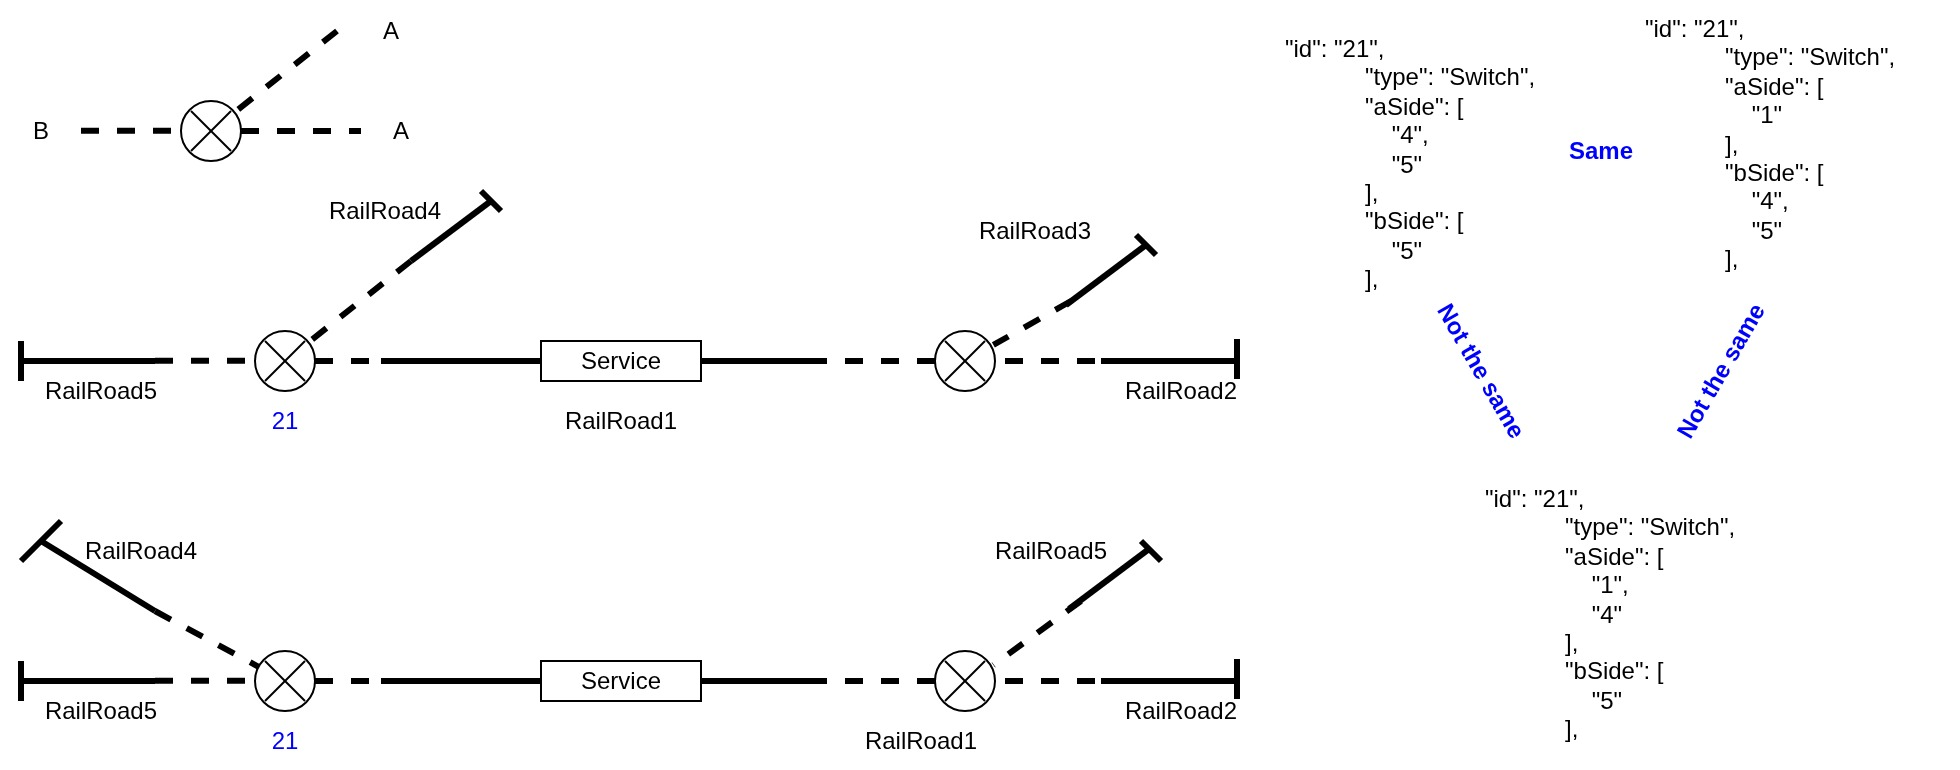
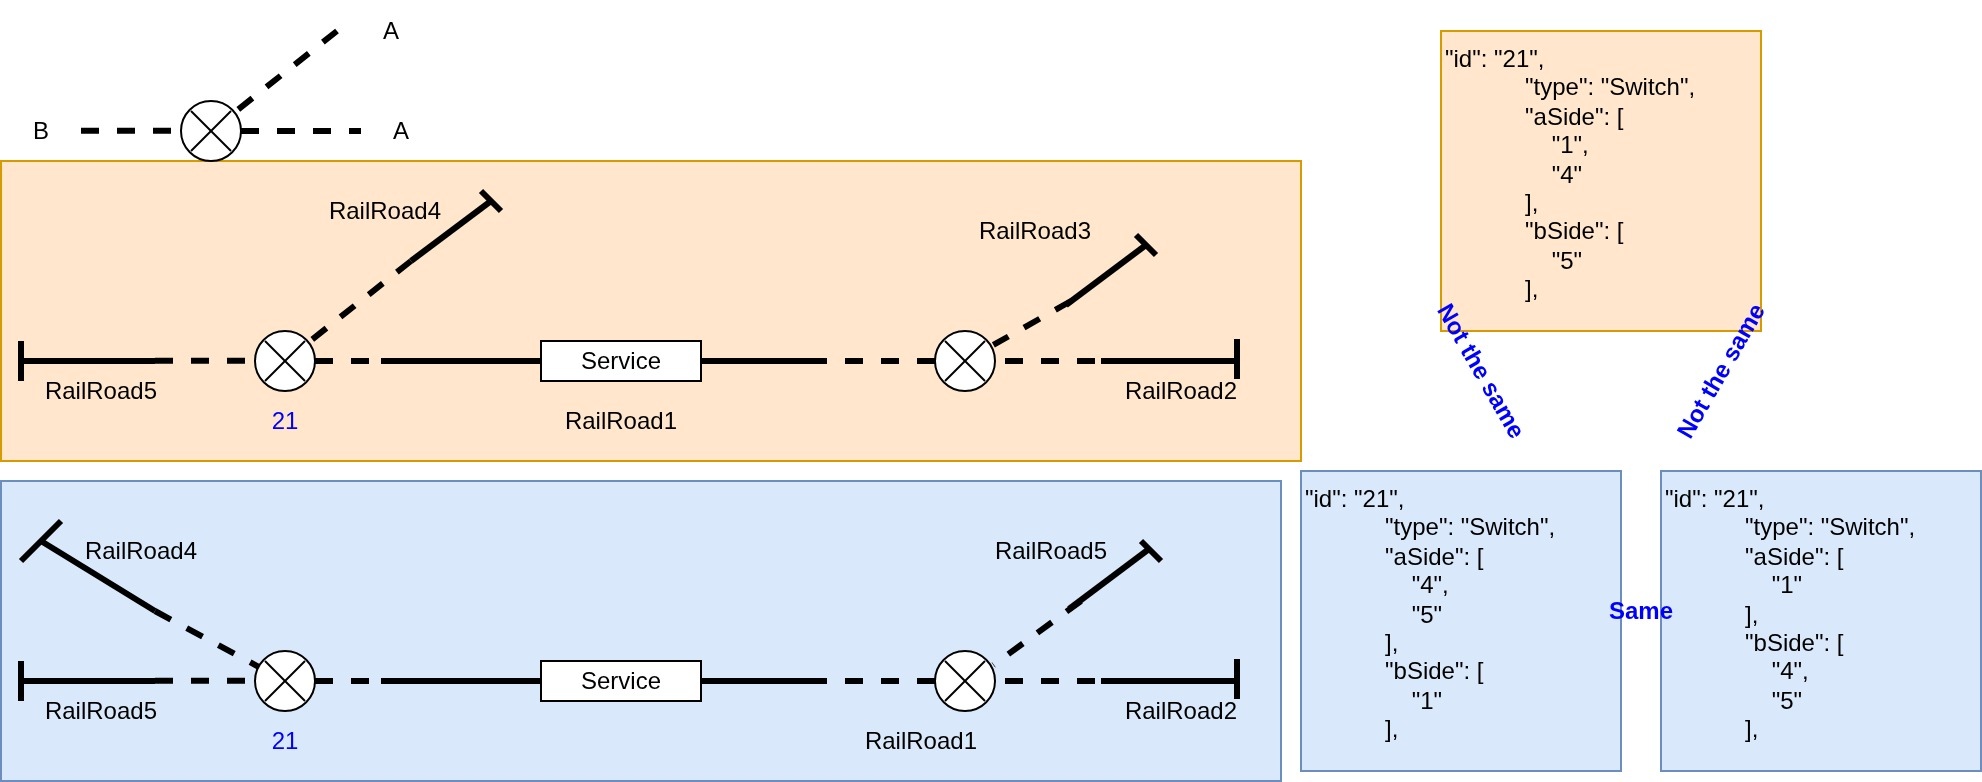
Fixed figure of Switch and add extra description

diff --git a/README.md b/README.md
@@ -283,7 +283,11 @@ Several scenario results in an invalid plan. Some times these reuslts are due to
 ### Specific "structural" issue
 | ID | Files  | Config file  | Expected Errors | Log file |
 | :------------ |:------------|:------------|:------------|:------------|
-| Switch matter | [Definition of a Switch](./ServiceSiteScheduling/database/TUSS-Instance-Generator/scenario_settings/setting_known_problems/setting_invalid_endmove/switch.jpg) | Not Specified | Swithc definition might affect the solving complexity. As definition, the B side of the switch is connected to a single RailRoad while the two A sides to two other RailRoads | Not Specified | 
+| Switch matter | [Definition of a Switch](./ServiceSiteScheduling/database/TUSS-Instance-Generator/scenario_settings/setting_known_problems/setting_invalid_endmove/switch.jpg) | Not Specified | Swithc definition might affect the solving complexity. Reversing the switch will resilt in a different location structure which affect directly the plan solving. In as the figure shows, a switch with Bside{5} Aside{4,1} is not hte sane as switch Bside{1} Aside{4,5}, however, switch with Bside{4,5} Aside{1} is the same as switch with Bside{4,5} Aside{1} | Not Specified | 
+
+![Switch](./ServiceSiteScheduling/database/TUSS-Instance-Generator/scenario_settings/setting_known_problems/setting_invalid_endmove/switch.jpg)
+
+
 
 # Build as standalone tool
 In principle the robust-rail tools are built in a single Docker do ease the development and usage. Nevertheless, it is possible to use/build `robust-rail-solver` as a standalone tool.
